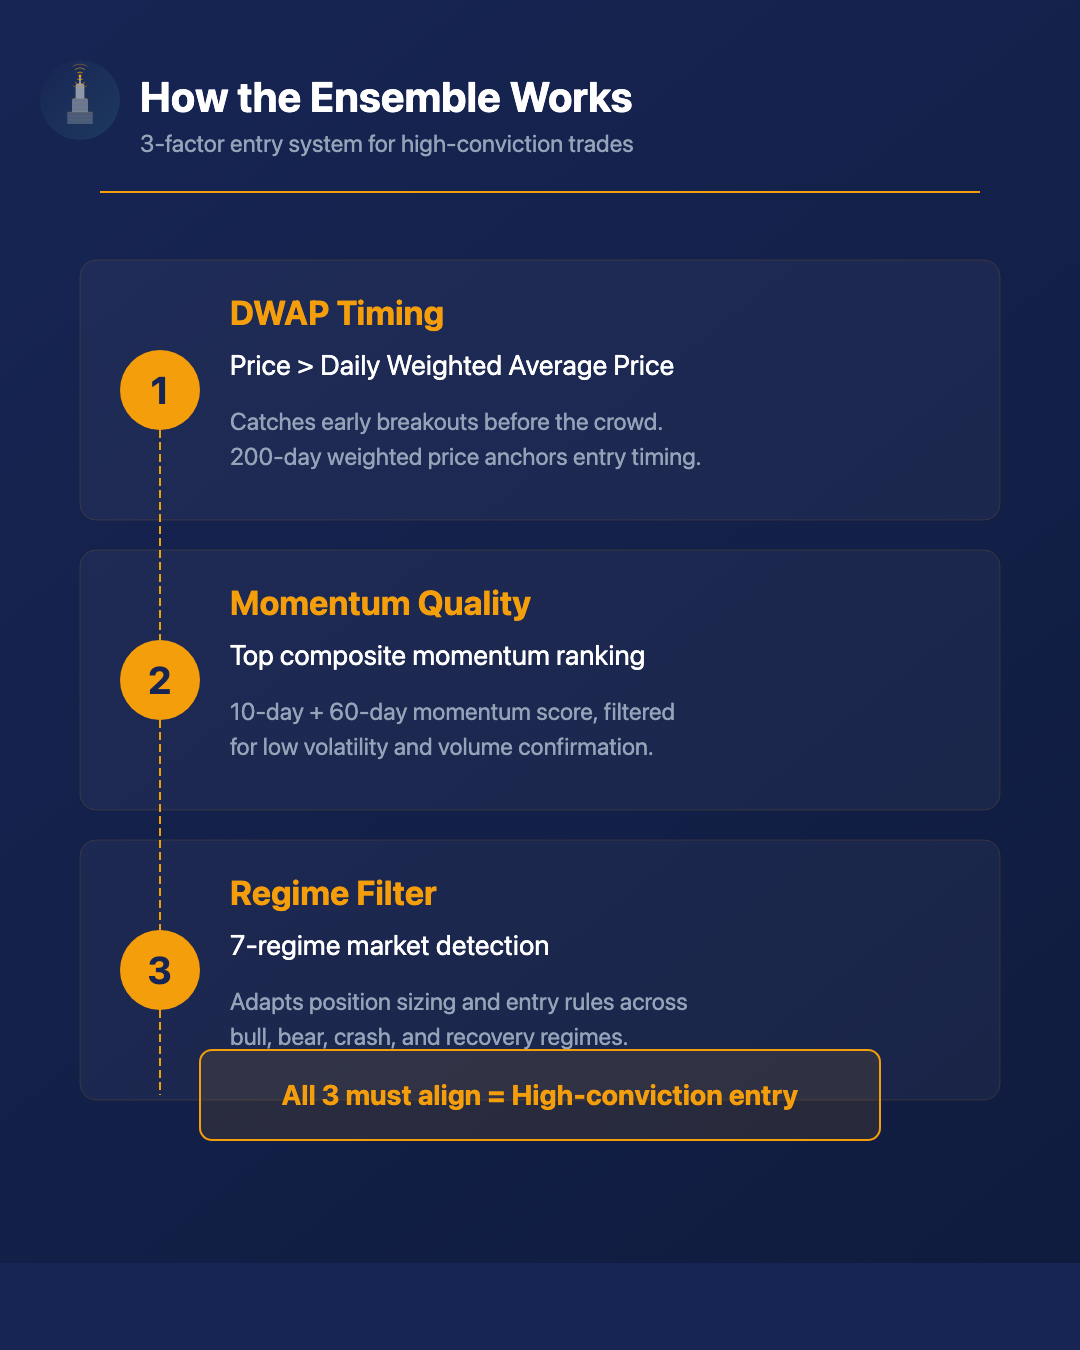
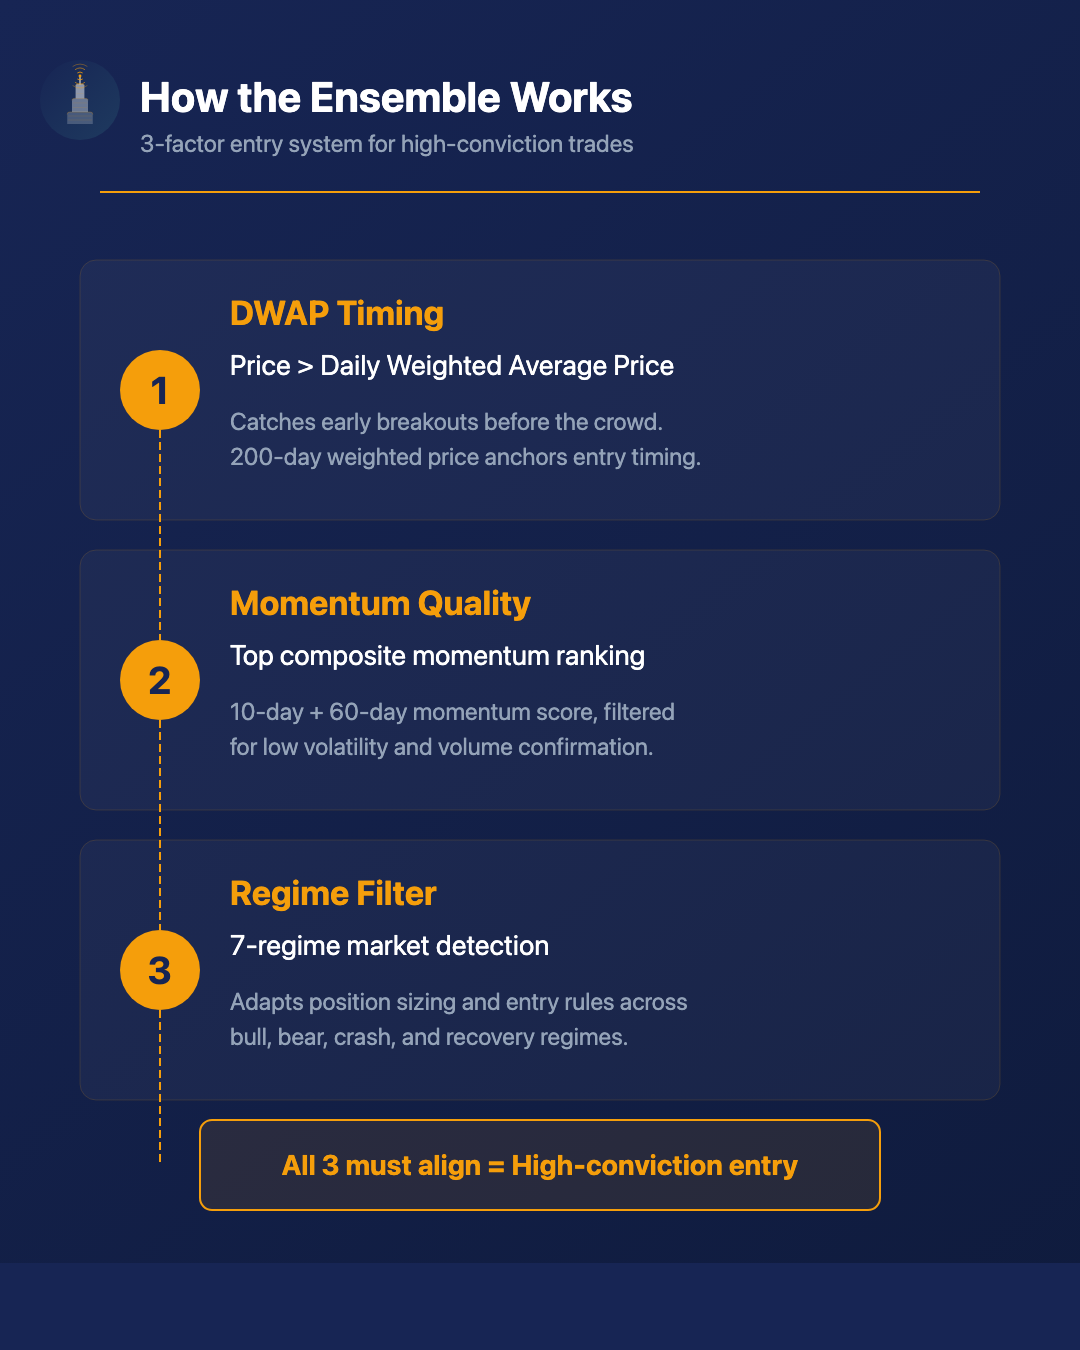
Fix card 3 overlap, update social preview to 4:5 ratio, add requeue action
- Card 3: move result box below factor cards (was overlapping Regime Filter)
- SocialTab: change aspect-square to aspect-[4/5] for Instagram preview panes
- Lambda: add social_admin requeue action to reset posts back to draft

Changed region(s): [[0.2444, 0.7778, 0.7333, 0.8711], [0.1833, 0.8089, 0.2139, 0.8711], [0.7944, 0.8089, 0.825, 0.84]]

diff --git a/frontend/src/components/SocialTab.jsx b/frontend/src/components/SocialTab.jsx
@@ -839,7 +839,7 @@ function ComposeModal({ onClose, onSubmit }) {
                   <RigaCapLogo size={32} className="shrink-0" />
                   <span className="font-semibold text-sm text-gray-900">rigacap</span>
                 </div>
-                <div className="w-full aspect-square bg-gray-50 flex items-center justify-center">
+                <div className="w-full aspect-[4/5] bg-gray-50 flex items-center justify-center">
                   <Image size={40} className="text-gray-300" />
                 </div>
                 <div className="px-3 py-2.5">
@@ -1218,11 +1218,11 @@ function InstagramCard({ post, preview, actionLoading, onApprove, onReject, onRe
             <img
               src={imageUrl}
               alt="Chart card"
-              className="w-full aspect-square object-cover bg-gray-100"
+              className="w-full aspect-[4/5] object-cover bg-gray-100"
               onError={(e) => { e.target.style.display = 'none'; }}
             />
           ) : (canGenerateChart || post.image_s3_key) && (
-            <div className="w-full aspect-square bg-gray-50 flex flex-col items-center justify-center gap-3">
+            <div className="w-full aspect-[4/5] bg-gray-50 flex flex-col items-center justify-center gap-3">
               <Image size={40} className="text-gray-300" />
               {post.image_s3_key ? (
                 <span className="text-xs text-gray-400">Image loading...</span>

diff --git a/design/brand/social-launch-cards.html b/design/brand/social-launch-cards.html
@@ -437,7 +437,7 @@ function drawGoldLine(ctx, y, w) {
   const cy1 = fy + cardH/2;
   const cy2 = fy + (cardH + cardGap) + cardH/2;
   const cy3 = fy + 2*(cardH + cardGap) + cardH/2;
-  const arrowY = cy3 + circleR + 40;
+  const arrowY = fy + 3 * cardH + 2 * cardGap + 20; // below all 3 cards
   const resultMidY = arrowY + 45;
 
   ctx.strokeStyle = GOLD;
@@ -463,6 +463,14 @@ function drawGoldLine(ctx, y, w) {
   ctx.font = 'bold 28px -apple-system, BlinkMacSystemFont, sans-serif';
   ctx.textAlign = 'center';
   ctx.fillText('All 3 must align = High-conviction entry', w/2, arrowY + 55);
+
+  // Footer
+  ctx.fillStyle = GRAY_LIGHT;
+  ctx.font = '22px -apple-system, BlinkMacSystemFont, sans-serif';
+  ctx.fillText('Walk-forward tested: no future data used in any period.', w/2, h - 70);
+  ctx.fillStyle = GOLD;
+  ctx.font = 'bold 22px -apple-system, BlinkMacSystemFont, sans-serif';
+  ctx.fillText('rigacap.com', w/2, h - 40);
 
 })();
 
